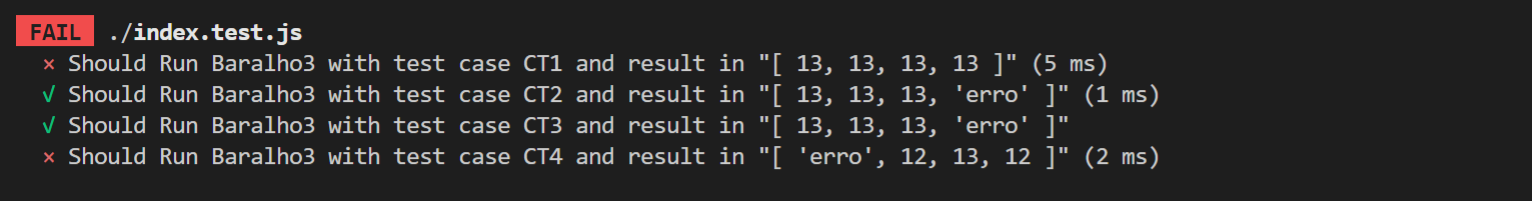
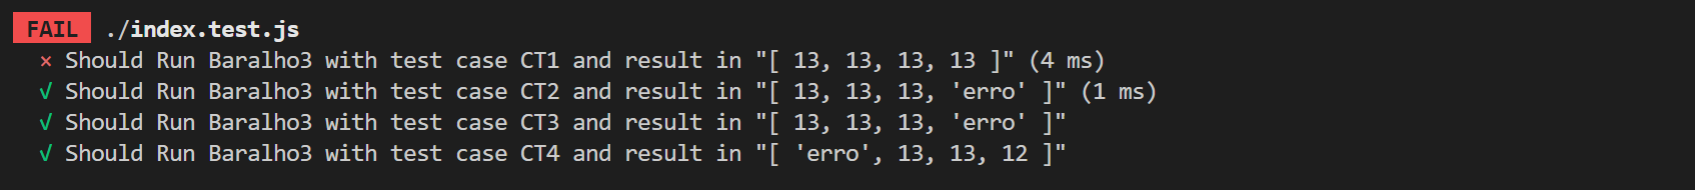
hotfix

diff --git a/Exercicio_Grafo/index.test.js b/Exercicio_Grafo/index.test.js
@@ -6,7 +6,7 @@ const index = require('./index');
 
 // Lista com os lados e o gabarito para o baralho3
 const listaDeInputs = [["", [13,13,13,13], "CT1"], ["13P13P", [13,13,13,"erro"], "CT2"],
-["12P12P13P", [13,13,13,"erro"], "CT3"], ["02C02C02C03C13P", ["erro",12,13,12], "CT4"]];
+["12P12P13P", [13,13,13,"erro"], "CT3"], ["02C02C02C03C13P", ["erro",13,13,12], "CT4"]];
 
 const reorderList = listaDeInputs.map(item => {
     return [item[2], item[1], item[0]]
